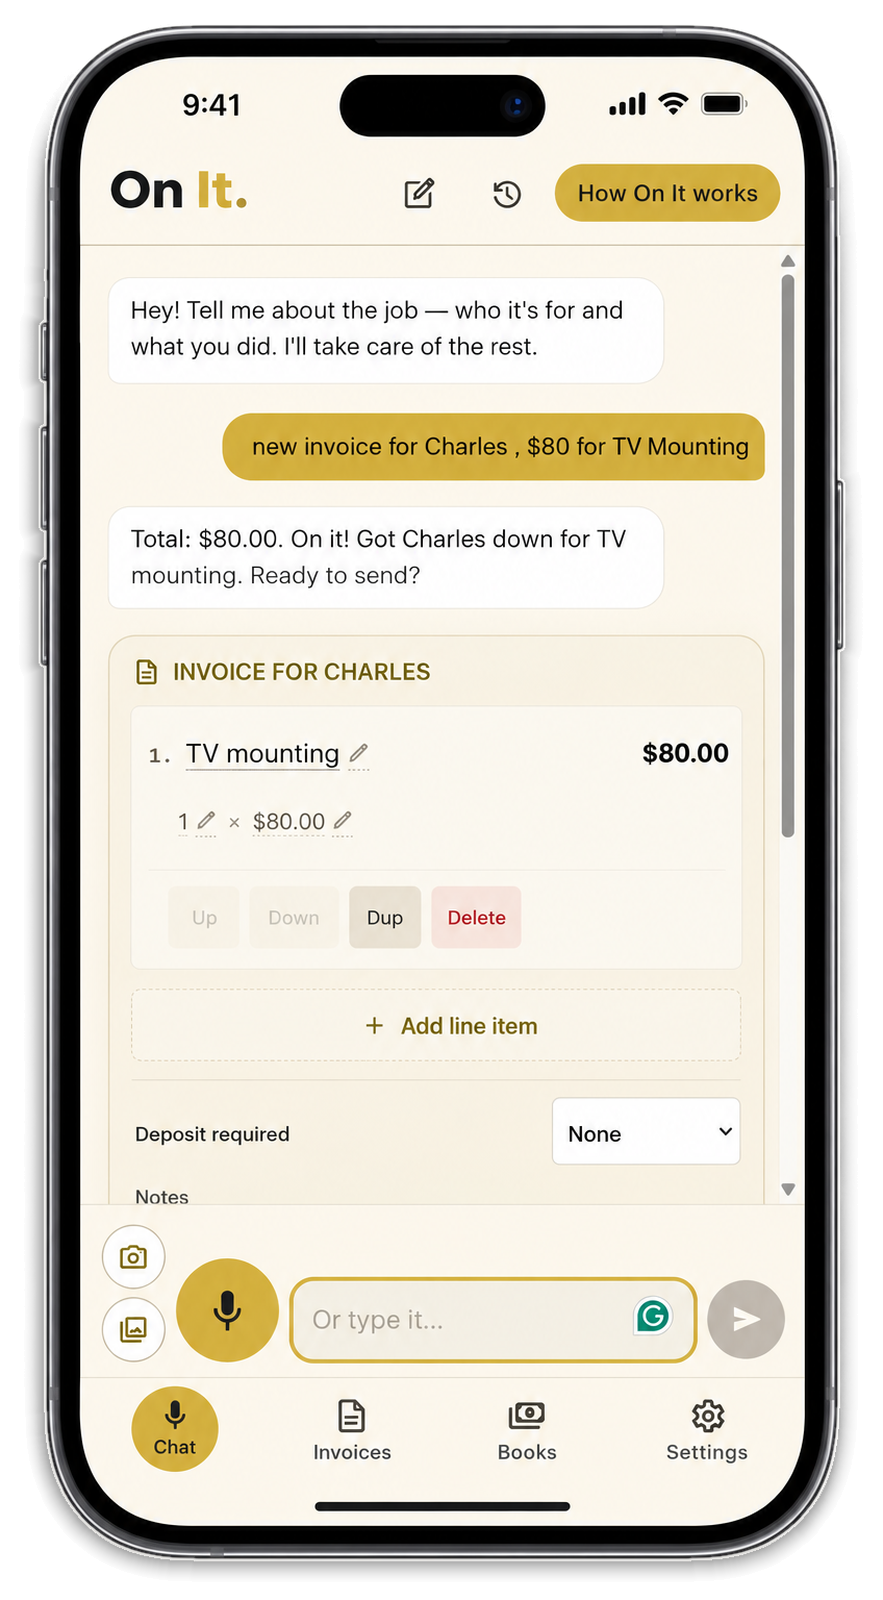
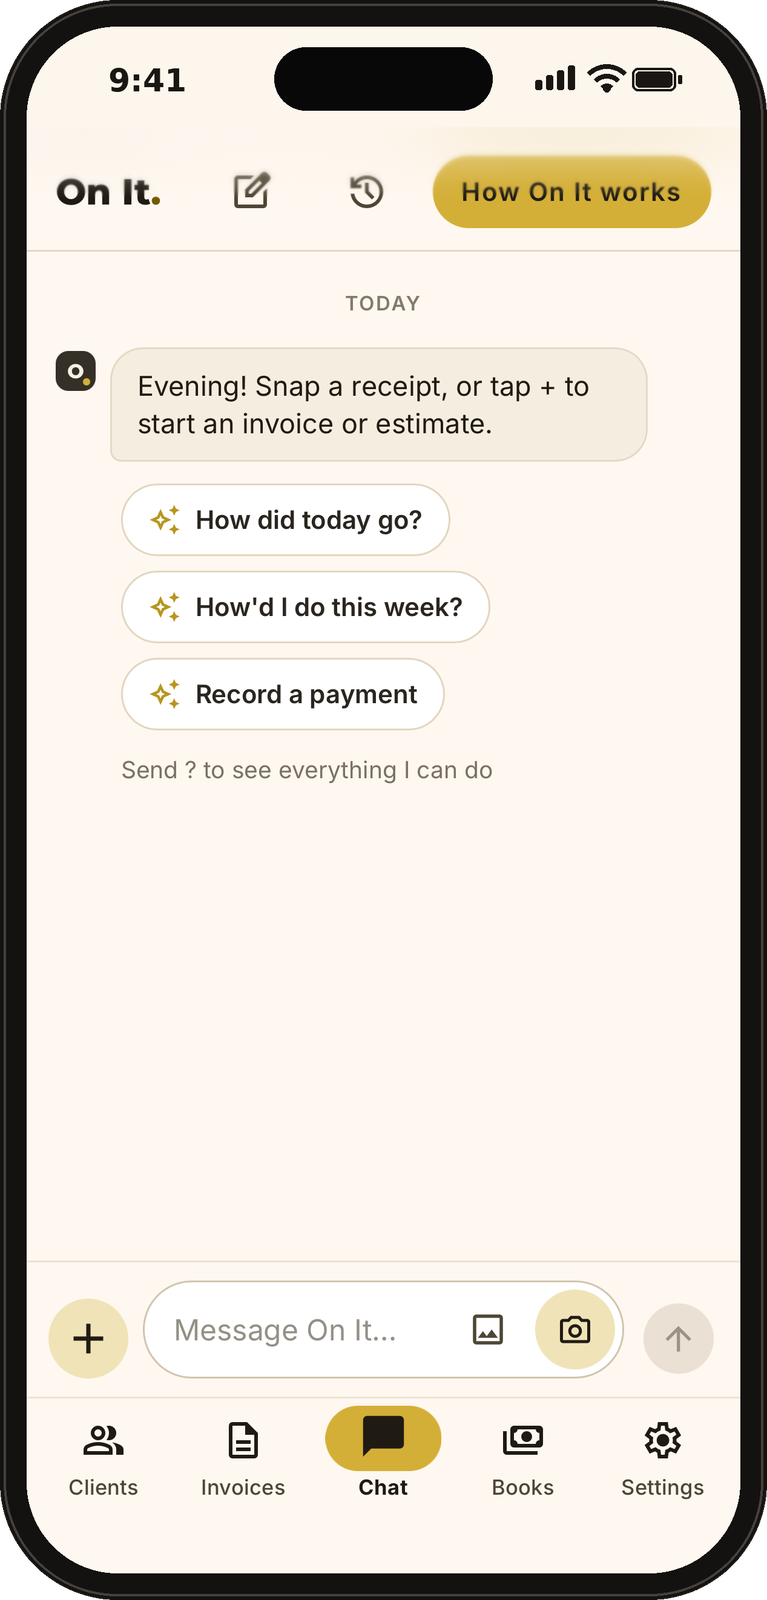
feat(on-it): replace app screenshots with the current UI and add clients and payment options
Claude-Session: https://claude.ai/code/session_01TRRL6wqWRwec7c1x9dyrsU

diff --git a/app/on-it/page.js b/app/on-it/page.js
@@ -13,12 +13,14 @@ export const metadata = pageMetadata({
 
 export default function OnItPage() {
   const stripScreenshots = [
-    { src: "/onit/01-chat.png", w: 883, alt: "On It chat screen turning a spoken job into an invoice" },
-    { src: "/onit/02-invoices.png", w: 883, alt: "On It invoices list screen" },
-    { src: "/onit/03-books.png", w: 911, alt: "On It books overview with money kept this year" },
-    { src: "/onit/04-expenses.png", w: 797, alt: "On It expenses logged from receipt photos" },
-    { src: "/onit/05-invoice-style.png", w: 900, alt: "On It invoice style and color picker" },
-    { src: "/onit/06-settings.png", w: 879, alt: "On It business settings and payment connections" },
+    { src: "/onit/01-chat.png", w: 767, alt: "On It chat screen with quick actions for receipts, invoices and payments" },
+    { src: "/onit/02-invoices.png", w: 767, alt: "On It invoices list with open and paid invoices" },
+    { src: "/onit/03-books.png", w: 767, alt: "On It books overview with money owed, collected and spent" },
+    { src: "/onit/04-books-summary.png", w: 767, alt: "On It books summary chart of income and expenses over time" },
+    { src: "/onit/05-invoice-style.png", w: 767, alt: "On It invoice style and color picker with a live preview" },
+    { src: "/onit/06-settings.png", w: 767, alt: "On It settings for clients, products, payment options and plan" },
+    { src: "/onit/07-clients.png", w: 767, alt: "On It clients list with open balances and estimates" },
+    { src: "/onit/08-payment-options.png", w: 767, alt: "On It payment options for card, bank transfer, Zelle, Cash App, PayPal and Venmo" },
   ];
 
   return (
@@ -88,8 +90,8 @@ export default function OnItPage() {
           <div className="onit-hero-shot">
             <Image
               src="/onit/01-chat.png"
-              alt="On It chat screen turning a spoken job into an invoice"
-              width={883}
+              alt="On It chat screen with quick actions for receipts, invoices and payments"
+              width={767}
               height={1600}
               sizes="320px"
               priority
